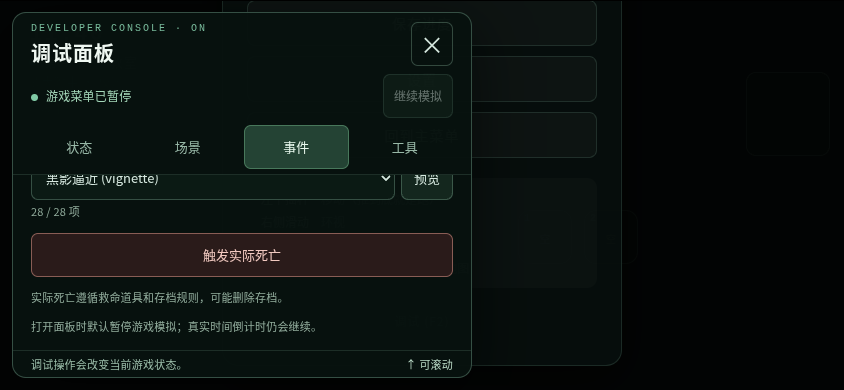
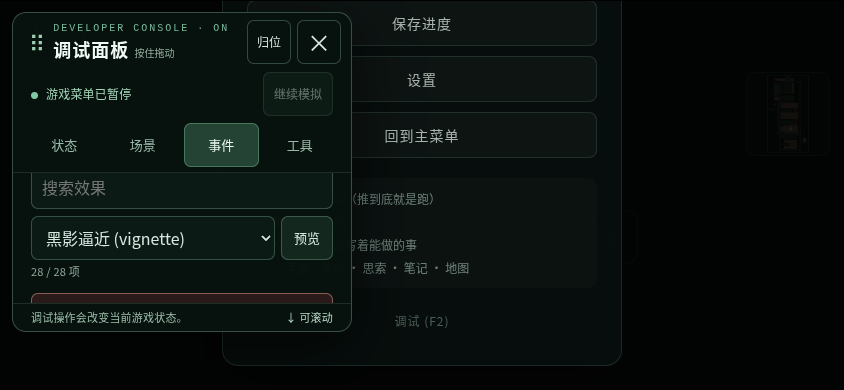
支持拖动调试面板并优化移动端操作

diff --git a/game3d/js/dev.js b/game3d/js/dev.js
@@ -1,7 +1,7 @@
 /* 里世界 3D · 调试面板 */
 'use strict';
 
-var DEV={on:false,fast:false,god:false,freeze:true,tab:'status',refreshT:0,lists:null,returnFocus:null,previewFx:null,previewTimer:0};
+var DEV={on:false,fast:false,god:false,freeze:true,tab:'status',refreshT:0,lists:null,returnFocus:null,previewFx:null,previewTimer:0,panelPos:null,drag:null,dragReady:false};
 var DEV_POI=[
   ['北门',514,115],['西小门',214,624],['南门',386,1276],
   ['大操场',344,350],['花园雕塑',535,1020],['车库入口',485,163],
@@ -36,8 +36,80 @@ var Dev={
       death:DEV_DEATH.map(function(d){return [d[1],d[0]+' ('+d[1]+')'];})
     };
     ['room','out','anom','death'].forEach(Dev.filter);
-    Dev.tab(DEV.tab);Dev.refresh();updateTouchUI();
+    Dev.initPanelDrag();Dev.tab(DEV.tab);Dev.refresh();Dev.fitPanel();updateTouchUI();
     var close=el&&el.querySelector('.devclose');if(close)close.focus({preventScroll:true});
+  },
+  panelBounds:function(){
+    var r=document.getElementById('devbounds').getBoundingClientRect(),v=window.visualViewport;
+    var left=r.left,top=r.top,right=r.right,bottom=r.bottom;
+    if(v){
+      left=Math.max(left,v.offsetLeft+8);top=Math.max(top,v.offsetTop+8);
+      right=Math.min(right,v.offsetLeft+v.width-8);bottom=Math.min(bottom,v.offsetTop+v.height-8);
+    }
+    return {left:left,top:top,right:Math.max(left,right),bottom:Math.max(top,bottom)};
+  },
+  placePanel:function(x,y,remember){
+    var el=document.getElementById('dev');if(!DEV.on||!el)return;
+    var b=Dev.panelBounds(),r=el.getBoundingClientRect();
+    x=Math.max(b.left,Math.min(x,Math.max(b.left,b.right-r.width)));
+    y=Math.max(b.top,Math.min(y,Math.max(b.top,b.bottom-r.height)));
+    el.style.left=x+'px';el.style.top=y+'px';
+    if(remember)DEV.panelPos={x:x,y:y};
+  },
+  fitPanel:function(){
+    var el=document.getElementById('dev');if(!DEV.on||!el)return;
+    var b=Dev.panelBounds(),width=b.right-b.left,height=b.bottom-b.top;
+    el.classList.toggle('dev-short',height<300);
+    el.style.maxWidth=width+'px';
+    el.style.maxHeight=Math.min(height,window.innerHeight*.82)+'px';
+    var pos=DEV.panelPos||{x:b.left+4,y:b.top+4};
+    Dev.placePanel(pos.x,pos.y,false);Dev.scrollHint();
+  },
+  resetPanelPosition:function(){Dev.endPanelDrag();DEV.panelPos=null;Dev.fitPanel();},
+  endPanelDrag:function(){
+    var drag=DEV.drag,el=document.getElementById('dev'),handle=document.getElementById('devdrag');
+    DEV.drag=null;if(el)el.classList.remove('dragging');
+    if(drag&&handle){try{if(handle.hasPointerCapture(drag.id))handle.releasePointerCapture(drag.id);}catch(e){}}
+  },
+  initPanelDrag:function(){
+    if(DEV.dragReady)return;
+    var handle=document.getElementById('devdrag'),panel=document.getElementById('dev');if(!handle||!panel)return;
+    DEV.dragReady=true;
+    handle.addEventListener('pointerdown',function(e){
+      if(!DEV.on||DEV.drag||!e.isPrimary||e.button!==0)return;
+      var r=panel.getBoundingClientRect();
+      DEV.drag={id:e.pointerId,x:e.clientX,y:e.clientY,left:r.left,top:r.top};
+      panel.classList.add('dragging');handle.focus({preventScroll:true});
+      try{handle.setPointerCapture(e.pointerId);}catch(err){}
+      if(e.cancelable)e.preventDefault();
+    });
+    window.addEventListener('pointermove',function(e){
+      var d=DEV.drag;if(!d||e.pointerId!==d.id)return;
+      if(e.pointerType==='mouse'&&e.buttons===0){Dev.endPanelDrag();return;}
+      Dev.placePanel(d.left+e.clientX-d.x,d.top+e.clientY-d.y,true);
+      if(e.cancelable)e.preventDefault();
+    },{passive:false});
+    function end(e){if(DEV.drag&&e.pointerId===DEV.drag.id)Dev.endPanelDrag();}
+    window.addEventListener('pointerup',end);window.addEventListener('pointercancel',end);
+    handle.addEventListener('lostpointercapture',end);window.addEventListener('blur',Dev.endPanelDrag);
+    handle.addEventListener('keydown',function(e){
+      if(!DEV.on)return;
+      if(e.key==='Home'){e.preventDefault();Dev.resetPanelPosition();return;}
+      var delta={ArrowLeft:[-1,0],ArrowRight:[1,0],ArrowUp:[0,-1],ArrowDown:[0,1]}[e.key];
+      if(!delta)return;
+      e.preventDefault();var r=panel.getBoundingClientRect(),step=e.shiftKey?48:16;
+      Dev.placePanel(r.left+delta[0]*step,r.top+delta[1]*step,true);
+    });
+    function viewportChanged(){
+      Dev.endPanelDrag();Dev.fitPanel();
+      var active=document.activeElement;
+      if(DEV.on&&active&&panel.contains(active)&&active.matches('input,select')){
+        requestAnimationFrame(function(){if(DEV.on&&document.activeElement===active)active.scrollIntoView({block:'nearest',inline:'nearest'});});
+      }
+    }
+    window.addEventListener('resize',viewportChanged);
+    if(window.visualViewport){window.visualViewport.addEventListener('resize',viewportChanged);window.visualViewport.addEventListener('scroll',viewportChanged);}
+    if(window.ResizeObserver)new ResizeObserver(function(){Dev.fitPanel();}).observe(panel);
   },
   filter:function(kind){
     var source=DEV.lists&&DEV.lists[kind],select=document.getElementById('dev'+kind);
@@ -60,7 +132,7 @@ var Dev={
       if(page)page.hidden=name!==id;if(button)button.setAttribute('aria-pressed',String(name===id));
     });
     var body=document.getElementById('devbody');if(body)body.scrollTop=0;
-    Dev.refresh();
+    Dev.refresh();Dev.fitPanel();
   },
   report:function(msg){var el=document.getElementById('devmessage');if(el)el.textContent=msg;toast(msg);},
   canUse:function(){
@@ -88,7 +160,7 @@ var Dev={
   toggleFreeze:function(){DEV.freeze=!DEV.freeze;Dev.refresh();},
   focusTrap:function(e){
     var panel=document.getElementById('dev');if(!panel)return;
-    var all=Array.prototype.slice.call(panel.querySelectorAll('button:not([disabled]),input:not([disabled]),select:not([disabled])'));
+    var all=Array.prototype.slice.call(panel.querySelectorAll('button:not([disabled]),input:not([disabled]),select:not([disabled]),[tabindex="0"]'));
     var controls=all.filter(function(el){return el.getClientRects().length>0;});if(!controls.length)return;
     var i=controls.indexOf(document.activeElement),target=null;
     if(e.shiftKey&&(i<=0))target=controls[controls.length-1];
@@ -169,6 +241,7 @@ var Dev={
   },
   close:function(resume){
     if(!DEV.on)return;
+    Dev.endPanelDrag();
     DEV.on=false;document.body.classList.remove('dev-open');var el=document.getElementById('dev');if(el)el.style.display='none';
     resetInputState();updateTouchUI();
     if(resume!==false){

diff --git a/game3d/css/game.css b/game3d/css/game.css
@@ -129,15 +129,19 @@ body.touch #pcpad{display:grid}
 body.touch #pcgame>button:not(.pcx){display:none}
 #devbackdrop{position:fixed;inset:0;z-index:119;display:none;background:rgba(0,0,0,.22);touch-action:none}
 body.dev-open #devbackdrop{display:block}body.dev-open #toast{z-index:130}
+#devbounds{position:fixed;inset:calc(8px + env(safe-area-inset-top,0px)) calc(8px + env(safe-area-inset-right,0px)) calc(8px + env(safe-area-inset-bottom,0px)) calc(8px + env(safe-area-inset-left,0px));visibility:hidden;pointer-events:none}
 #dev{position:fixed;left:calc(12px + env(safe-area-inset-left,0px));top:calc(12px + env(safe-area-inset-top,0px));z-index:120;display:none;
   flex-direction:column;overflow:hidden;width:min(460px,calc(100vw - 24px - env(safe-area-inset-left,0px) - env(safe-area-inset-right,0px)));
-  max-height:calc(100vh - 24px - env(safe-area-inset-top,0px) - env(safe-area-inset-bottom,0px));
-  max-height:calc(100dvh - 24px - env(safe-area-inset-top,0px) - env(safe-area-inset-bottom,0px));
+  max-height:82vh;max-height:82dvh;
   background:rgba(7,17,14,.98);border:1px solid rgba(130,180,155,.38);border-radius:14px;
   box-shadow:0 18px 60px rgba(0,0,0,.55);font:13px/1.5 var(--ui-font);letter-spacing:.2px;color:#d6e8df}
-#dev .devhead{display:flex;align-items:center;justify-content:space-between;gap:12px;padding:16px 18px 10px;flex:none}
-#dev .deveye{font:10px/1.4 var(--ui-mono);letter-spacing:2px;color:#77b99a}
-#dev h2{font-size:20px;line-height:1.3;letter-spacing:1px;font-weight:600;margin-top:4px;color:#eff8f2}
+#dev .devhead{display:flex;align-items:center;gap:6px;padding:9px 10px 5px;flex:none}
+#dev .devdrag{display:flex;align-items:center;gap:8px;flex:1;min-width:0;min-height:48px;padding:3px 6px;border-radius:7px;cursor:grab;touch-action:none;user-select:none;-webkit-user-select:none}
+#dev .devdrag:focus-visible{outline:2px solid #a2e5c2;outline-offset:-2px}#dev.dragging .devdrag{cursor:grabbing;background:#1a3527}
+#dev .devgrip{color:#9bcfb1;font-size:22px;line-height:1}#dev .devtitle{min-width:0}
+#dev .deveye{overflow:hidden;text-overflow:ellipsis;white-space:nowrap;font:10px/1.4 var(--ui-mono);letter-spacing:2px;color:#77b99a}
+#dev h2{font-size:18px;line-height:1.3;letter-spacing:1px;font-weight:600;margin-top:2px;color:#eff8f2;white-space:nowrap}
+#dev .devdrag-hint{font-size:10px;letter-spacing:0;font-weight:400;color:#91ac9c}
 #dev button,#dev input,#dev select{font:inherit;min-height:42px;border:1px solid rgba(142,190,165,.32);border-radius:7px;color:#d6e8df;background:#14271e}
 #dev button{padding:8px 12px;cursor:pointer;transition:background .15s,border-color .15s}
 #dev button:hover{background:#264536;border-color:#80c9a5}
@@ -145,7 +149,8 @@ body.dev-open #devbackdrop{display:block}body.dev-open #toast{z-index:130}
 #dev button:disabled,#dev select:disabled{opacity:.45;cursor:not-allowed}
 #dev input,#dev select{min-width:0;padding:8px 10px;background:#0b1a14}
 #dev input{user-select:text;-webkit-user-select:text}
-#dev .devclose{flex:none;width:42px;min-height:42px;padding:0;font-size:24px;line-height:1;background:transparent}
+#dev .devreset,#dev .devclose{flex:none;min-width:44px;min-height:44px;padding:0;background:transparent}
+#dev .devreset{font-size:12px}#dev .devclose{font-size:24px;line-height:1}
 #dev .devrun{display:flex;align-items:center;justify-content:space-between;gap:12px;padding:8px 18px 12px;color:#a4d7b9;font-size:12px;flex:none}
 #dev .devrun span:before{content:'';display:inline-block;width:7px;height:7px;border-radius:50%;margin-right:8px;background:#80c9a5}
 #dev .devrun button{min-height:36px;padding:5px 10px;font-size:12px}
@@ -176,12 +181,16 @@ body.dev-open #devbackdrop{display:block}body.dev-open #toast{z-index:130}
 #dev .devhint{margin-top:12px}#dev .devfooter{display:flex;justify-content:space-between;gap:8px;flex:none;padding:9px 18px;border-top:1px solid rgba(130,180,155,.18);font-size:11px;line-height:1.5;color:#9bbda9}
 #devscroll{white-space:nowrap;color:#b9d9c5}#devscroll[hidden]{display:none}
 body.touch #dev button,body.touch #dev input,body.touch #dev select{min-height:44px}
+body.touch #dev{width:min(340px,calc(100vw - 48px - env(safe-area-inset-left,0px) - env(safe-area-inset-right,0px)))}
+body.touch #dev input,body.touch #dev select{font-size:16px}
+body.touch #dev .devstats strong{font-size:12px;letter-spacing:0}
 body.touch #dev .devkbd{display:none}
 @media (max-height:520px){
-  #dev .devhead{padding-top:9px;padding-bottom:5px}#dev .devrun{padding-top:3px;padding-bottom:7px}
+  #dev .devhead{padding-top:5px;padding-bottom:3px}#dev .devrun{padding-top:3px;padding-bottom:7px}
   #dev .devtabs{padding-bottom:5px}#dev .devfooter{padding-top:5px;padding-bottom:5px}
 }
-@media (max-width:370px){#dev .devstats{grid-template-columns:repeat(2,minmax(0,1fr))}}
+#dev.dev-short .deveye{display:none}#dev.dev-short .devfooter{display:none}
+@media (max-width:370px){#dev .devstats{grid-template-columns:repeat(2,minmax(0,1fr))}#dev .deveye{display:none}}
 
 /* 触屏：快捷栏（.bc 两格）挪到摇杆上方，不然正好压在奔跑键上 */
 

diff --git a/index.html b/index.html
@@ -135,9 +135,14 @@
   <button type="button" class="pcx" onclick="PCGAME.stop()" aria-label="退出电脑">✕ 退出</button>
   <div id="pcpad"><button type="button" data-d="0,-1" aria-label="上">▲</button><button type="button" data-d="-1,0" aria-label="左">◀</button><button type="button" data-d="1,0" aria-label="右">▶</button><button type="button" data-d="0,1" aria-label="下">▼</button></div></div>
 <div id="devbackdrop" aria-hidden="true"></div>
+<div id="devbounds" aria-hidden="true"></div>
 <div id="dev" role="dialog" aria-modal="true" aria-labelledby="devTitle">
   <header class="devhead">
-    <div><div class="deveye">DEVELOPER CONSOLE <span id="devst">· ON</span></div><h2 id="devTitle">调试面板</h2></div>
+    <div class="devdrag" id="devdrag" role="group" tabindex="0" aria-label="移动调试面板：按住拖动，或使用方向键移动，Home 键归位" title="按住拖动；方向键移动，Home 键归位">
+      <span class="devgrip" aria-hidden="true">⠿</span>
+      <div class="devtitle"><div class="deveye">DEVELOPER CONSOLE <span id="devst">· ON</span></div><h2 id="devTitle">调试面板 <span class="devdrag-hint">按住拖动</span></h2></div>
+    </div>
+    <button type="button" class="devreset" onclick="Dev.resetPanelPosition()" aria-label="调试面板归位" title="调试面板归位">归位</button>
     <button type="button" class="devclose" onclick="Dev.close()" aria-label="关闭调试面板">×</button>
   </header>
   <div class="devrun"><span id="devrun" role="status"></span><button type="button" id="devfreeze" onclick="Dev.toggleFreeze()">继续模拟</button></div>

diff --git a/tests/test_dev_panel.py b/tests/test_dev_panel.py
@@ -50,7 +50,14 @@ class DebugPanelTest(BrowserCase):
         self.assert_js(page,"document.body.classList.contains('dev-open')&&document.getElementById('dev').getAttribute('aria-modal')==='true'")
         page.locator('.devclose').focus()
         page.keyboard.press('Shift+Tab')
+        self.assertTrue(page.locator('.devreset').evaluate('(el)=>document.activeElement===el'))
+        page.keyboard.press('Shift+Tab')
+        self.assertTrue(page.locator('#devdrag').evaluate('(el)=>document.activeElement===el'))
+        page.keyboard.press('Shift+Tab')
         self.assertEqual(page.evaluate('document.activeElement.textContent'),'复活角色')
+        page.keyboard.press('Tab')
+        self.assertTrue(page.locator('#devdrag').evaluate('(el)=>document.activeElement===el'))
+        page.keyboard.press('Tab')
         page.keyboard.press('Tab')
         self.assertTrue(page.locator('.devclose').evaluate('(el)=>document.activeElement===el'))
         self.assert_js(page,"document.elementFromPoint(innerWidth-5,innerHeight-5).id==='devbackdrop'")
@@ -312,6 +319,139 @@ class DebugPanelTest(BrowserCase):
         page.locator('#dev-page-tools button').filter(has_text='重看前情提要').click()
         self.assert_js(page,"DEV.on&&localStorage.getItem('wdfz3d')===saved&&localStorage.getItem('wdfz_pro')==='1'")
 
+    def test_mouse_drag_is_bounded_and_position_can_be_reset(self):
+        page = self.game()
+        self.open_panel(page)
+        panel=page.locator('#dev')
+        initial=panel.bounding_box()
+        handle=page.locator('#devdrag').bounding_box()
+        page.mouse.move(handle['x']+25,handle['y']+20)
+        page.mouse.down()
+        page.mouse.move(980,680,steps=5)
+        page.mouse.up()
+        moved=panel.bounding_box()
+        self.assertGreater(moved['x'],initial['x']+100)
+        self.assertGreater(moved['y'],initial['y']+30)
+        self.assertLessEqual(moved['x']+moved['width'],page.viewport_size['width']-7)
+        self.assertLessEqual(moved['y']+moved['height'],page.viewport_size['height']-7)
+        self.assert_js(page,"!DEV.drag&&!document.getElementById('dev').classList.contains('dragging')")
+        page.keyboard.press('F2')
+        self.open_panel(page)
+        self.assertAlmostEqual(panel.bounding_box()['x'],moved['x'],delta=1)
+        page.locator('.devreset').click()
+        self.assertAlmostEqual(panel.bounding_box()['x'],initial['x'],delta=1)
+        self.assertAlmostEqual(panel.bounding_box()['y'],initial['y'],delta=1)
+        page.locator('.devclose').click()
+        self.assert_js(page,'!DEV.on&&playerInputAllowed()')
+
+    def test_keyboard_move_and_viewport_resize_keep_panel_reachable(self):
+        page = self.game()
+        self.open_panel(page)
+        panel=page.locator('#dev')
+        initial=panel.bounding_box()
+        page.locator('#devdrag').focus()
+        page.keyboard.press('ArrowRight')
+        page.keyboard.press('Shift+ArrowDown')
+        moved=panel.bounding_box()
+        self.assertAlmostEqual(moved['x'],initial['x']+16,delta=1)
+        self.assertAlmostEqual(moved['y'],initial['y']+48,delta=1)
+        page.keyboard.press('Home')
+        self.assertAlmostEqual(panel.bounding_box()['x'],initial['x'],delta=1)
+        page.evaluate('Dev.placePanel(900,600,true)')
+        page.set_viewport_size({'width':320,'height':568})
+        page.wait_for_function("(()=>{let r=document.getElementById('dev').getBoundingClientRect();return r.right<=innerWidth-7&&r.bottom<=innerHeight-7})()")
+        self.assertTrue(page.locator('.devclose').is_visible())
+        page.locator('.devreset').click()
+        self.assert_js(page,"(()=>{let r=document.getElementById('dev').getBoundingClientRect();return r.left>=8&&r.top>=8&&r.right<=innerWidth-7&&r.bottom<=innerHeight-7})()")
+
+    def test_visual_viewport_constrains_keyboard_and_restores_position(self):
+        page = self.game()
+        self.open_panel(page)
+        result=page.evaluate("""()=>{
+          Dev.placePanel(420,100,true);
+          const before=document.getElementById('dev').getBoundingClientRect();
+          Object.defineProperty(window,'visualViewport',{configurable:true,value:{offsetLeft:40,offsetTop:25,width:330,height:250}});
+          Dev.fitPanel();
+          const r=document.getElementById('dev').getBoundingClientRect();
+          const clipped={left:r.left,top:r.top,right:r.right,bottom:r.bottom,short:document.getElementById('dev').classList.contains('dev-short')};
+          delete window.visualViewport;Dev.fitPanel();
+          const restored=document.getElementById('dev').getBoundingClientRect();
+          return {before:{left:before.left,top:before.top},clipped,restored:{left:restored.left,top:restored.top}};
+        }""")
+        self.assertGreaterEqual(result['clipped']['left'],48)
+        self.assertGreaterEqual(result['clipped']['top'],33)
+        self.assertLessEqual(result['clipped']['right'],362)
+        self.assertLessEqual(result['clipped']['bottom'],267)
+        self.assertTrue(result['clipped']['short'])
+        self.assertAlmostEqual(result['restored']['left'],result['before']['left'],delta=1)
+        self.assertAlmostEqual(result['restored']['top'],result['before']['top'],delta=1)
+
+    def test_touch_drag_moves_window_without_interfering_with_scroll_or_buttons(self):
+        page = self.game(touch=True)
+        page.evaluate('Game.pause()')
+        page.locator('#pause button').filter(has_text='调试').tap()
+        panel=page.locator('#dev')
+        initial=panel.bounding_box()
+        handle=page.locator('#devdrag').bounding_box()
+        self.swipe(page,(handle['x']+25,handle['y']+20),(handle['x']+90,handle['y']+100))
+        moved=panel.bounding_box()
+        self.assertGreater(moved['x'],initial['x']+10)
+        self.assertGreater(moved['y'],initial['y']+50)
+        self.assert_js(page,'!DEV.drag&&PAUSE.on')
+        page.locator('[data-dev-tab="events"]').tap()
+        body=page.locator('#devbody')
+        rect=body.bounding_box()
+        self.swipe(page,(rect['x']+20,rect['y']+rect['height']-15),(rect['x']+20,rect['y']+15))
+        page.wait_for_timeout(250)
+        self.assertGreater(body.evaluate('(el)=>el.scrollTop'),0)
+        self.assertAlmostEqual(panel.bounding_box()['y'],moved['y'],delta=1)
+        page.locator('.devreset').tap()
+        self.assertAlmostEqual(panel.bounding_box()['x'],initial['x'],delta=1)
+        self.assertAlmostEqual(panel.bounding_box()['y'],initial['y'],delta=1)
+        page.locator('.devclose').tap()
+        self.assert_js(page,"!DEV.on&&PAUSE.on&&UI.openPanel==='pause'")
+
+    def test_touch_drag_cancel_and_orientation_change_release_the_pointer(self):
+        page = self.game(touch=True)
+        page.evaluate('Dev.open()')
+        panel=page.locator('#dev')
+        handle=page.locator('#devdrag').bounding_box()
+        x,y=handle['x']+25,handle['y']+20
+        self.touch(page,'touchStart',[{'x':x,'y':y,'id':1}])
+        self.assert_js(page,'!!DEV.drag')
+        self.touch(page,'touchMove',[{'x':x+20,'y':y+50,'id':1}])
+        self.touch(page,'touchCancel',[])
+        self.assert_js(page,"!DEV.drag&&!document.getElementById('dev').classList.contains('dragging')")
+        moved=panel.bounding_box()
+        self.assertGreater(moved['y'],20)
+        handle=page.locator('#devdrag').bounding_box()
+        self.touch(page,'touchStart',[{'x':handle['x']+25,'y':handle['y']+20,'id':2}])
+        self.assert_js(page,'!!DEV.drag')
+        page.set_viewport_size({'width':844,'height':390})
+        page.wait_for_function("!DEV.drag&&(()=>{let r=document.getElementById('dev').getBoundingClientRect();return r.left>=0&&r.top>=0&&r.right<=innerWidth&&r.bottom<=innerHeight})()")
+        self.touch(page,'touchEnd',[])
+        page.locator('.devreset').tap()
+        page.locator('.devclose').tap()
+        self.assert_js(page,'!DEV.on&&playerInputAllowed()')
+
+    def test_second_touch_cannot_take_over_a_drag(self):
+        page = self.game(touch=True)
+        page.evaluate('Dev.open()')
+        panel=page.locator('#dev')
+        handle=page.locator('#devdrag').bounding_box()
+        x,y=handle['x']+20,handle['y']+20
+        before=panel.bounding_box()
+        page.evaluate("window.secondaryMoved=false;window.addEventListener('pointermove',e=>{if(e.pointerType==='touch'&&!e.isPrimary)window.secondaryMoved=true})")
+        self.touch(page,'touchStart',[{'x':x,'y':y,'id':1}])
+        self.touch(page,'touchStart',[{'x':x,'y':y,'id':1},{'x':x+30,'y':y+5,'id':2}])
+        self.touch(page,'touchMove',[{'x':x,'y':y,'id':1},{'x':x+50,'y':y+45,'id':2}])
+        page.wait_for_function('window.secondaryMoved')
+        self.assertAlmostEqual(panel.bounding_box()['y'],before['y'],delta=1)
+        self.touch(page,'touchMove',[{'x':x+15,'y':y+45,'id':1},{'x':x+50,'y':y+45,'id':2}])
+        page.wait_for_function("y=>document.getElementById('dev').getBoundingClientRect().top>y+30",arg=before['y'])
+        self.touch(page,'touchCancel',[])
+        self.assert_js(page,'!DEV.drag&&DEV.on')
+
     def test_touch_layout_scrolls_at_narrow_and_landscape_sizes(self):
         for width,height in ((320,568),(390,844),(844,390)):
             with self.subTest(width=width,height=height):
@@ -320,6 +460,14 @@ class DebugPanelTest(BrowserCase):
                 page.evaluate('Game.pause()')
                 page.locator('#pause button').filter(has_text='调试').tap()
                 page.locator('#dev').wait_for(state='visible')
+                self.assert_js(page,"(()=>{let r=document.getElementById('dev').getBoundingClientRect();return r.left>=0&&r.top>=0&&r.right<=innerWidth&&r.bottom<=innerHeight})()")
+                self.assert_js(page,"Array.from(document.querySelectorAll('#dev .devstats strong')).every(el=>el.scrollWidth<=el.clientWidth)")
+                self.assert_js(page,"parseFloat(getComputedStyle(document.getElementById('devstatvalue')).fontSize)>=16")
+                panel=page.locator('#dev')
+                before=panel.bounding_box()
+                handle=page.locator('#devdrag').bounding_box()
+                self.swipe(page,(handle['x']+20,handle['y']+20),(handle['x']+50,handle['y']+60))
+                self.assertGreater(panel.bounding_box()['y'],before['y']+20)
                 self.assert_js(page,"(()=>{let r=document.getElementById('dev').getBoundingClientRect();return r.left>=0&&r.top>=0&&r.right<=innerWidth&&r.bottom<=innerHeight})()")
                 page.locator('[data-dev-tab="events"]').tap()
                 body=page.locator('#devbody')

diff --git a/docs/调试面板说明.md b/docs/调试面板说明.md
@@ -2,6 +2,10 @@
 
 游戏中按 **F2**，或在暂停菜单点击「调试」并输入密码，可以打开调试面板。触屏设备从暂停菜单进入。密码校验仍在 `game3d/js/dev.js` 中；每次打开都需要输入。F2、Esc 或右上角关闭按钮可关闭面板。
 
+按住标题栏上的「按住拖动」区域，可以用鼠标或手指移动窗口；在面板内容区上下滑动仍是滚动内容。点击「归位」可将窗口移回左上角。键盘用户可以用 Tab 选中标题栏，再用方向键移动，按住 Shift 加快移动，或按 Home 归位。窗口位置在本次页面会话中保留，刷新页面后恢复默认。
+
+手机上窗口会留出屏幕空间供移动，按钮和输入框适合触控。旋转屏幕、调整窗口大小或弹出软键盘时，窗口会限制在可见范围内；小屏幕可在面板内容区继续滚动。面板打开时屏蔽窗口外的游戏操作，关闭后回到之前的游戏或暂停菜单。
+
 面板每次打开时默认暂停游戏模拟，包括当前异象和随机环境幻觉的计时；点击「继续模拟」可在面板打开期间继续推进。真实时间的选择倒计时和主动触发的死亡 / 画面演出不会因此暂停。如果原本打开了暂停菜单或其他会暂停游戏的界面，面板会显示「游戏菜单已暂停」；关闭调试面板后仍需从原界面恢复游戏。
 
 ## 状态
@@ -38,4 +42,4 @@ PYTHONPATH=tests python -m unittest -v test_dev_panel
 python -m unittest discover -s tests -v
 ```
 
-浏览器测试覆盖键盘和触屏模拟、焦点与暂停状态、筛选、传送、数值范围、预览及存档边界。模拟浏览器不代表实体手机的输入、性能或视觉效果。
+浏览器测试覆盖鼠标、键盘和触屏模拟的拖动、归位、滚动与窗口边界，以及焦点与暂停状态、筛选、传送、数值范围、预览及存档边界。模拟浏览器不代表实体手机的输入、性能或视觉效果。

diff --git a/pictures/调试面板/README.md b/pictures/调试面板/README.md
@@ -4,8 +4,8 @@
 
 | 截图 | 视口和操作 |
 | --- | --- |
-| [桌面状态](桌面状态.png) | 1000 × 700，键盘 F2 打开，显示状态与调试暂停。 |
-| [竖屏场景](竖屏场景.png) | 390 × 844，触屏模拟，从暂停菜单打开并筛选室内地点。 |
+| [桌面状态](桌面状态.png) | 1000 × 700，键盘 F2 打开，用鼠标拖动后显示状态与调试暂停。 |
+| [竖屏场景](竖屏场景.png) | 390 × 844，触屏模拟，从暂停菜单打开、筛选室内地点并拖动窗口。 |
 | [横屏事件](横屏事件.png) | 844 × 390，触屏模拟，从暂停菜单打开事件页并向下滚到死亡效果。 |
 
 截图和触屏模拟不能替代实体手机测试。可用 `PYTHONPATH=tests python -m unittest -v test_dev_panel` 复测布局、触屏操作和存档边界。
